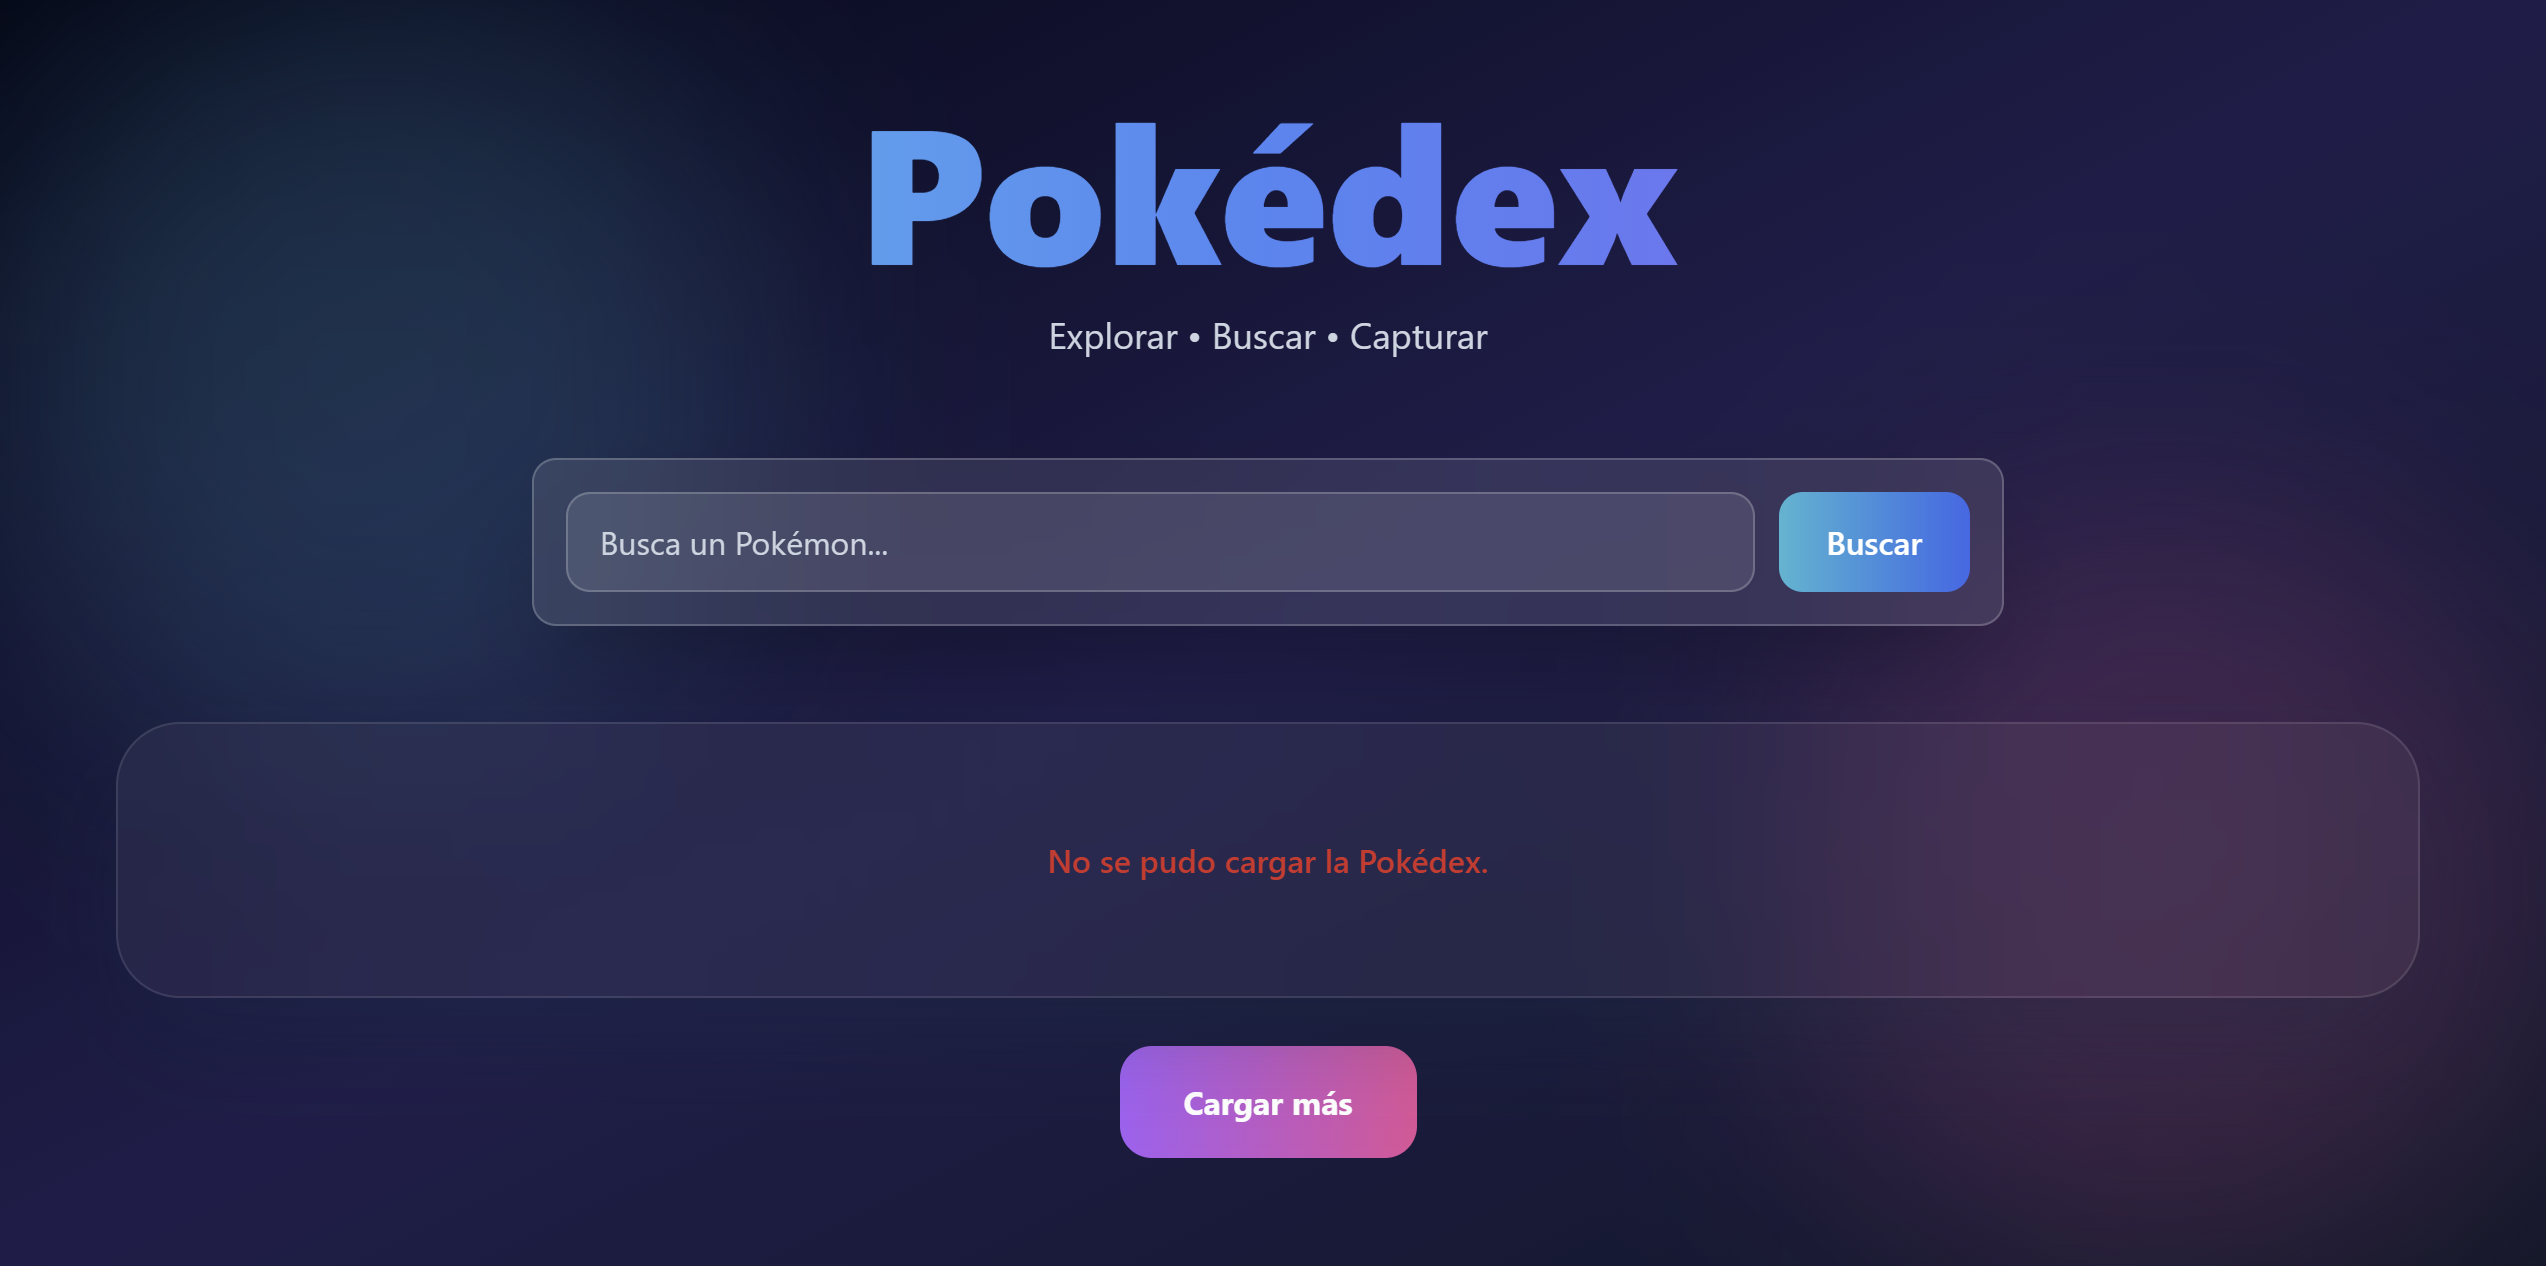
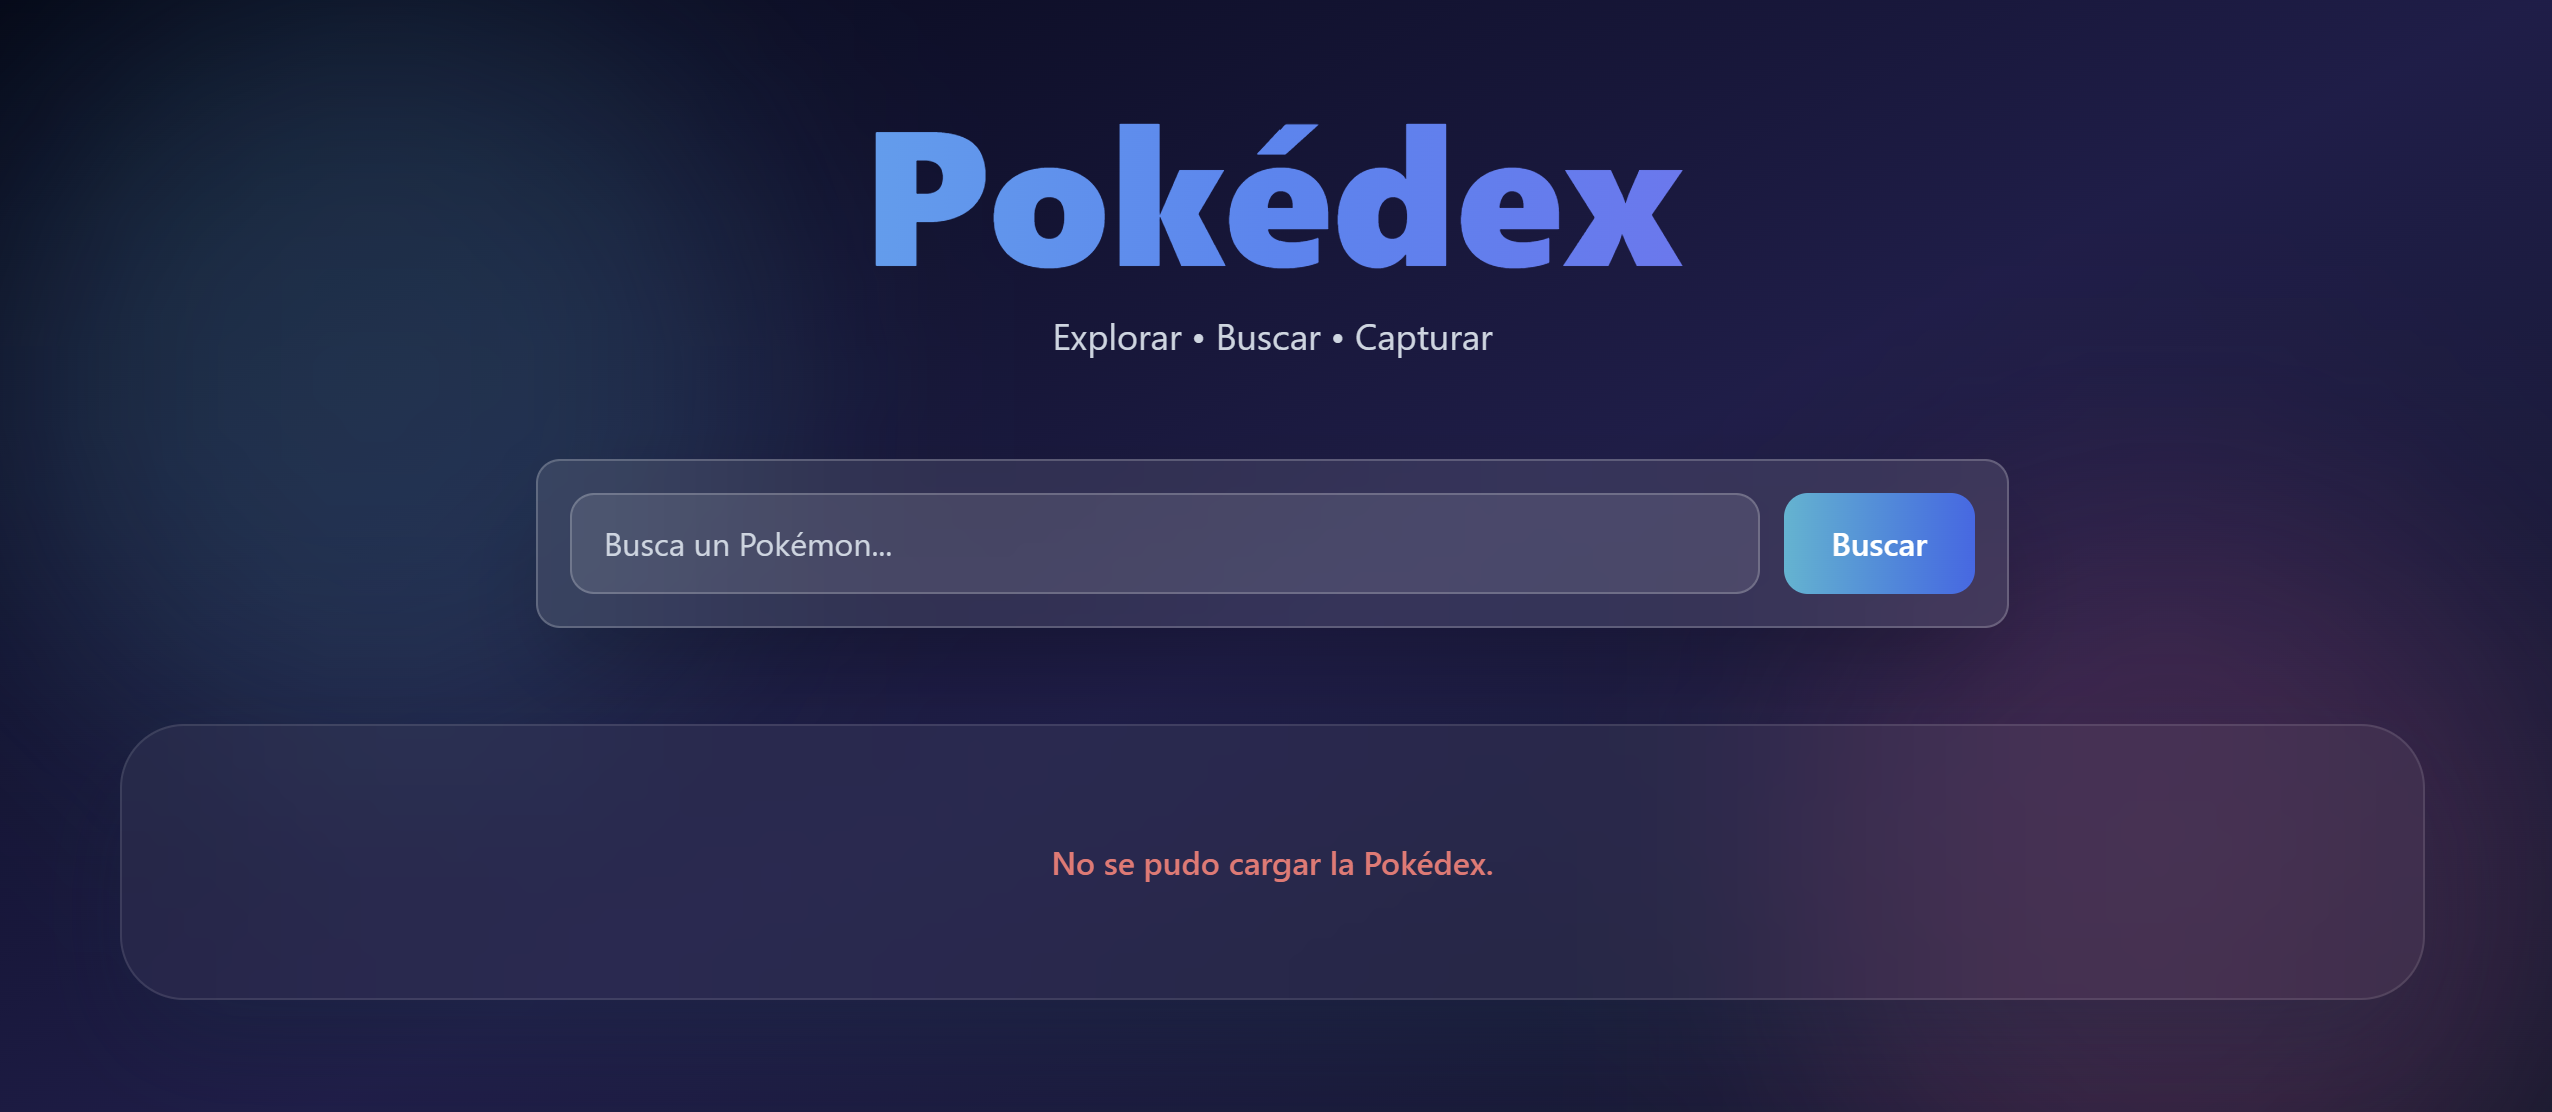
refactor: reorganize app.js structure by responsibilities

diff --git a/js/app.js b/js/app.js
@@ -1,7 +1,15 @@
+// ─────────────────────────────────────────────────────────────
+// Estado de la aplicación
+// ─────────────────────────────────────────────────────────────
 let pokedex = [];
 let ultimaBusqueda = "";
+let offset = 0;
 
 const MAX_STAT = 255;
+
+// ─────────────────────────────────────────────────────────────
+// Configuración
+// ─────────────────────────────────────────────────────────────
 
 // Colores hex por tipo para el sistema de color dinámico
 const coloresTipo = {
@@ -25,6 +33,24 @@ const coloresTipo = {
   fairy: { a: "#D4527A", b: "#F07AA0", glow: "rgba(212,82,122,0.25)" },
 };
 
+// ─────────────────────────────────────────────────────────────
+// Elementos del DOM
+// ─────────────────────────────────────────────────────────────
+
+const contenedor = document.getElementById("resultado");
+const buscador = document.getElementById("buscador");
+const botonBuscar = document.getElementById("btn-buscar");
+const botonCargar = document.getElementById("cargar-mas");
+const botonReintentar = document.getElementById("btn-reintentar");
+
+const spinner = document.getElementById("spinner");
+
+const mensaje = document.getElementById("mensaje");
+const textoMensaje = document.getElementById("texto-mensaje");
+
+// ─────────────────────────────────────────────────────────────
+// Utilidades
+// ─────────────────────────────────────────────────────────────
 function getColor(tipo) {
   return (
     coloresTipo[tipo] ?? {
@@ -35,14 +61,20 @@ function getColor(tipo) {
   );
 }
 
-const contenedor = document.getElementById("resultado");
-const buscador = document.getElementById("buscador");
-const botonBuscar = document.getElementById("btn-buscar");
-const mensaje = document.getElementById("mensaje");
-const textoMensaje = document.getElementById("texto-mensaje");
-const botonReintentar = document.getElementById("btn-reintentar");
-const spinner = document.getElementById("spinner");
-const botonCargar = document.getElementById("cargar-mas");
+function adaptarPokemon(data) {
+  return {
+    id: data.id,
+    nombre: data.name,
+    imagen:
+      data.sprites?.front_default ?? "https://via.placeholder.com/96?text=?",
+    tipos: data.types.map((t) => t.type.name),
+    stats: data.stats.map((s) => ({ nombre: s.stat.name, valor: s.base_stat })),
+  };
+}
+
+// ─────────────────────────────────────────────────────────────
+// Componentes UI
+// ─────────────────────────────────────────────────────────────
 
 // ─── CREAR TARJETA BASE (sin botón capturar) ─────────────────────────────────
 function crearTarjeta(pokemon) {
@@ -117,17 +149,6 @@ function crearTarjeta(pokemon) {
   return articulo;
 }
 
-function adaptarPokemon(data) {
-  return {
-    id: data.id,
-    nombre: data.name,
-    imagen:
-      data.sprites?.front_default ?? "https://via.placeholder.com/96?text=?",
-    tipos: data.types.map((t) => t.type.name),
-    stats: data.stats.map((s) => ({ nombre: s.stat.name, valor: s.base_stat })),
-  };
-}
-
 function render(lista) {
   botonCargar.classList.remove("hidden");
   contenedor.innerHTML = "";
@@ -135,58 +156,6 @@ function render(lista) {
     const tarjeta = crearTarjeta(pokemon);
     contenedor.appendChild(tarjeta);
   });
-}
-
-async function obtenerPokemon(idONombre) {
-  const response = await fetch(
-    `https://pokeapi.co/api/v2/pokemon/${idONombre}`,
-  );
-
-  if (response.status === 404) return null;
-
-  if (!response.ok) throw new Error(`No se encontró "${idONombre}"`);
-
-  return response.json();
-}
-
-async function cargarPokedex() {
-  spinner.classList.remove("hidden");
-  try {
-    const nombres = [
-      "bulbasaur",
-      "charmander",
-      "squirtle",
-      "pikachu",
-      "jigglypuff",
-      "gengar",
-    ];
-    const datos = await Promise.all(nombres.map(obtenerPokemon));
-    pokedex = datos.map(adaptarPokemon);
-    render(pokedex);
-  } catch (error) {
-    textoMensaje.textContent = "No se pudo cargar la Pokédex.";
-    mensaje.classList.remove("hidden");
-    botonCargar.classList.add("hidden");
-    botonReintentar.classList.add("hidden");
-  } finally {
-    spinner.classList.add("hidden");
-  }
-}
-
-cargarPokedex();
-
-async function buscarPokemon(nombre) {
-  const data = await obtenerPokemon(nombre.toLowerCase());
-  if (data === null) return null;
-  return adaptarPokemon(data);
-}
-
-function capturar(pokemon) {
-  if (!pokedex.some((p) => p.nombre === pokemon.nombre)) {
-    pokedex.push(pokemon);
-  }
-  render(pokedex);
-  buscador.value = "";
 }
 
 // ─── RESULTADO DE BÚSQUEDA (con botón capturar original) ─────────────────────
@@ -239,6 +208,82 @@ function mostrarResultado(pokemon) {
   contenedor.appendChild(tarjeta);
 }
 
+// ─────────────────────────────────────────────────────────────
+// API
+// ─────────────────────────────────────────────────────────────
+async function obtenerPokemon(idONombre) {
+  const response = await fetch(
+    `https://pokeapi.co/api/v2/pokemon/${idONombre}`,
+  );
+
+  if (response.status === 404) return null;
+
+  if (!response.ok) throw new Error(`No se encontró "${idONombre}"`);
+
+  return response.json();
+}
+
+async function buscarPokemon(nombre) {
+  const data = await obtenerPokemon(nombre.toLowerCase());
+  if (data === null) return null;
+  return adaptarPokemon(data);
+}
+
+async function cargarPokedex() {
+  spinner.classList.remove("hidden");
+  try {
+    const nombres = [
+      "bulbasaur",
+      "charmander",
+      "squirtle",
+      "pikachu",
+      "jigglypuff",
+      "gengar",
+    ];
+    const datos = await Promise.all(nombres.map(obtenerPokemon));
+    pokedex = datos.map(adaptarPokemon);
+    render(pokedex);
+  } catch (error) {
+    textoMensaje.textContent = "No se pudo cargar la Pokédex.";
+    mensaje.classList.remove("hidden");
+    botonCargar.classList.add("hidden");
+    botonReintentar.classList.add("hidden");
+  } finally {
+    spinner.classList.add("hidden");
+  }
+}
+
+async function cargarMas() {
+  const respuesta = await fetch(
+    `https://pokeapi.co/api/v2/pokemon?limit=12&offset=${offset}`,
+  );
+  const lista = await respuesta.json();
+
+  const datos = await Promise.all(
+    lista.results.map((item) => fetch(item.url).then((r) => r.json())),
+  );
+
+  datos.map(adaptarPokemon).forEach(function (pokemon) {
+    if (!pokedex.some((p) => p.nombre === pokemon.nombre)) {
+      pokedex.push(pokemon);
+    }
+  });
+
+  offset += 12;
+  render(pokedex);
+}
+
+// ─────────────────────────────────────────────────────────────
+// Lógica de negocio
+// ─────────────────────────────────────────────────────────────
+function capturar(pokemon) {
+  if (!pokedex.some((p) => p.nombre === pokemon.nombre)) {
+    pokedex.push(pokemon);
+  }
+  render(pokedex);
+  buscador.value = "";
+}
+
 async function mostrarBusqueda(nombre) {
   ultimaBusqueda = nombre;
 
@@ -273,6 +318,9 @@ async function mostrarBusqueda(nombre) {
   }
 }
 
+// ─────────────────────────────────────────────────────────────
+// Eventos
+// ─────────────────────────────────────────────────────────────
 botonBuscar.addEventListener("click", function () {
   const nombre = buscador.value.trim();
   if (nombre !== "") mostrarBusqueda(nombre);
@@ -282,29 +330,7 @@ buscador.addEventListener("keydown", function (event) {
   if (event.key === "Enter") botonBuscar.click();
 });
 
-let offset = 0;
-
-async function cargarMas() {
-  const respuesta = await fetch(
-    `https://pokeapi.co/api/v2/pokemon?limit=12&offset=${offset}`,
-  );
-  const lista = await respuesta.json();
-
-  const datos = await Promise.all(
-    lista.results.map((item) => fetch(item.url).then((r) => r.json())),
-  );
-
-  datos.map(adaptarPokemon).forEach(function (pokemon) {
-    if (!pokedex.some((p) => p.nombre === pokemon.nombre)) {
-      pokedex.push(pokemon);
-    }
-  });
-
-  offset += 12;
-  render(pokedex);
-}
-
-document.getElementById("cargar-mas").addEventListener("click", cargarMas);
+botonCargar.addEventListener("click", cargarMas);
 
 botonReintentar.addEventListener("click", () => {
   if (ultimaBusqueda !== "") {
@@ -312,3 +338,8 @@ botonReintentar.addEventListener("click", () => {
     mostrarBusqueda(ultimaBusqueda);
   }
 });
+
+// ─────────────────────────────────────────────────────────────
+// Inicialización
+// ─────────────────────────────────────────────────────────────
+cargarPokedex();